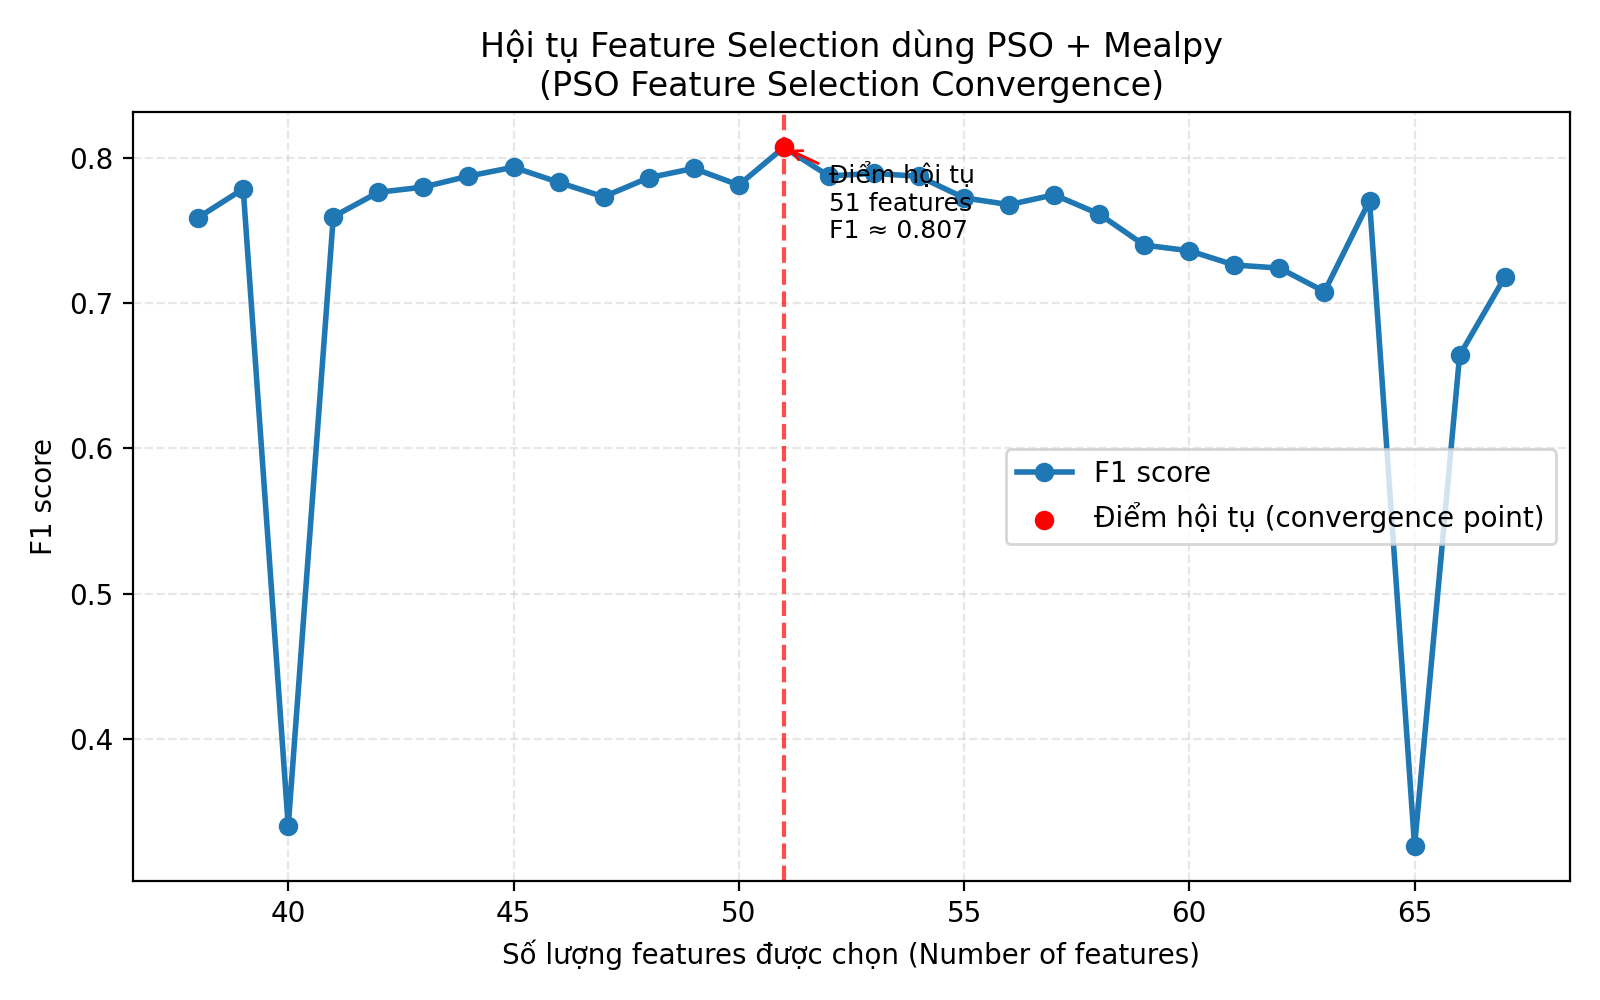
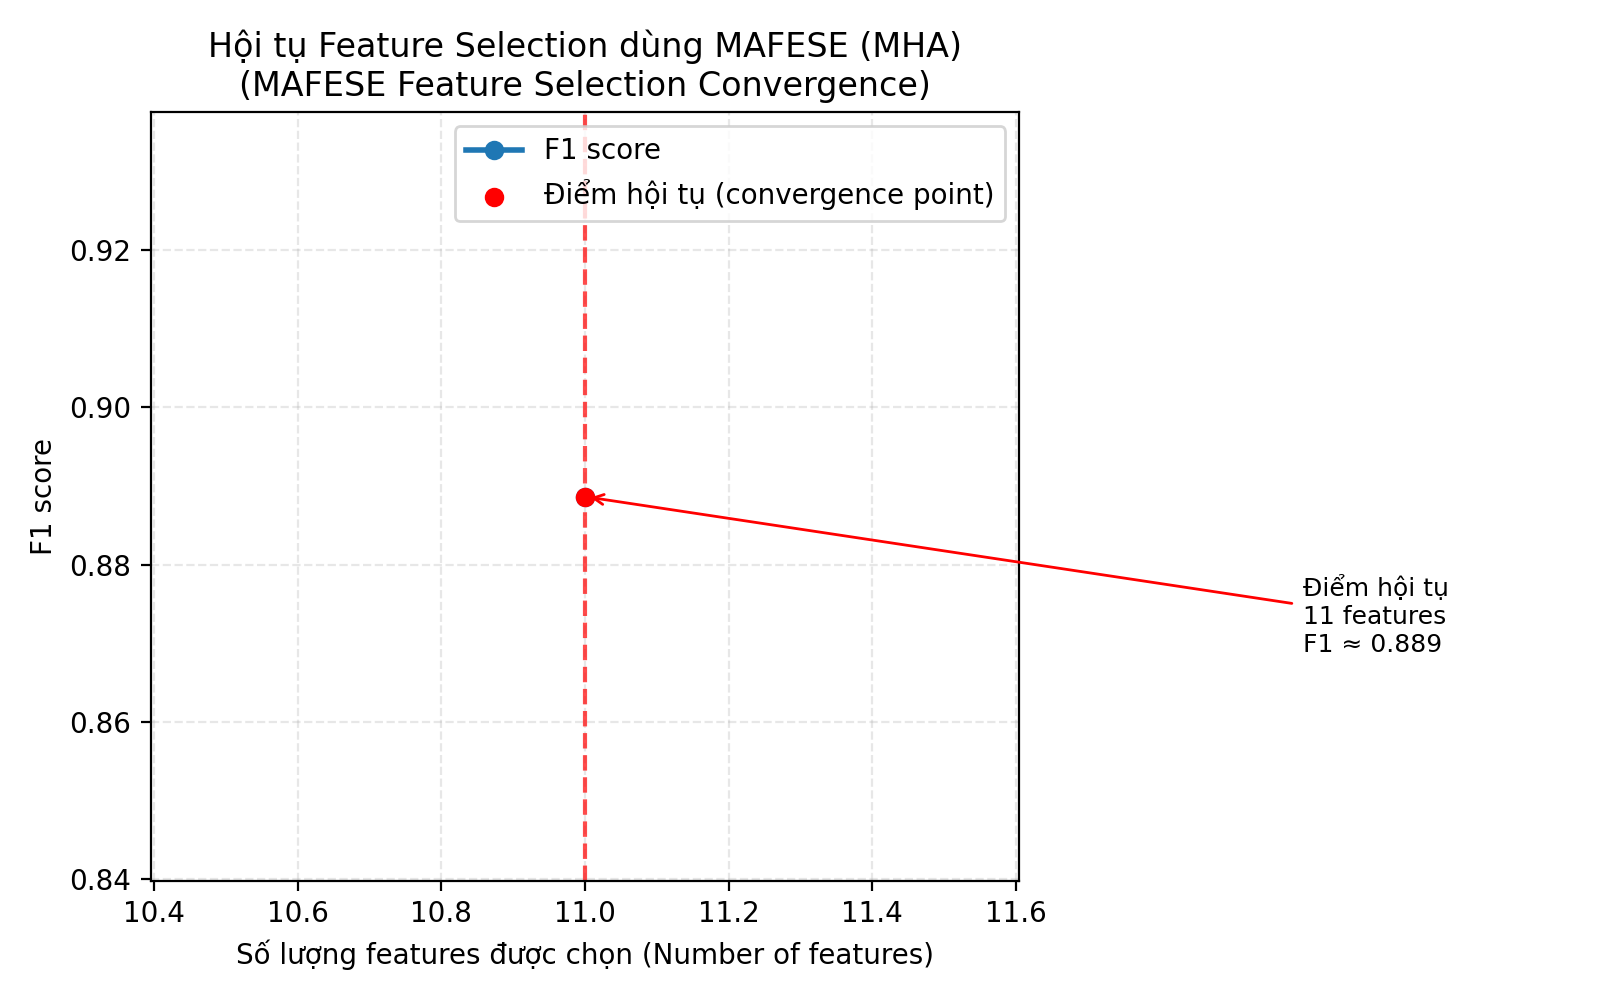
Refactor feature selection implementation to utilize MAFESE with MHA. Updated function names, added feature importance plotting, and modified dataset handling. Included new dependency for MAFESE in pyproject.toml.

diff --git a/plot_pso_fs_convergence.py b/plot_pso_fs_convergence.py
@@ -3,9 +3,7 @@ import pandas as pd
 import matplotlib.pyplot as plt
 from pandas.api.types import is_numeric_dtype
 from sklearn.ensemble import RandomForestClassifier
-from sklearn.model_selection import StratifiedKFold, cross_val_score
-from mealpy import FloatVar
-from mealpy.swarm_based import WOA
+from mafese import Data, MhaSelector
 
 
 def load_dataset(csv_path: str = "class.csv"):
@@ -25,73 +23,47 @@ def load_dataset(csv_path: str = "class.csv"):
     X = np.column_stack(X_encoded)
     y_raw = df["Number of Bugs"].values
     y = (y_raw > 0).astype(int)
-    return X, y
+    return X, y, feature_cols
 
 
-def build_woa_objective(X, y, best_f1_by_k: dict):
-    skf = StratifiedKFold(n_splits=5, shuffle=True, random_state=42)
-    clf = RandomForestClassifier(n_estimators=100, random_state=42, n_jobs=-1)
+def run_mafese_mha_feature_selection(X, y, epoch: int = 20, pop_size: int = 20, verbose: bool = True):
+    data = Data(X, y)
+    data.split_train_test(test_size=0.2, random_state=42)
 
-    # These dicts are mutated inside the closure for simple stateful logging
-    eval_counter = {"n": 0}
-    global_best = {"f1": -1.0, "k": None}
+    optimizer_paras = {"epoch": epoch, "pop_size": pop_size}
+    selector = MhaSelector(
+        problem="classification",
+        obj_name=None,
+        estimator="rf",
+        estimator_paras={"n_estimators": 100, "random_state": 42, "n_jobs": -1},
+        optimizer="OriginalWOA",
+        optimizer_paras=optimizer_paras,
+        mode="single",
+        n_workers=None,
+        termination=None,
+        seed=42,
+        verbose=verbose,
+    )
 
-    def objective(solution):
-        sol = np.asarray(solution)
-        mask = sol > 0.5
-        if not np.any(mask):
-            mask[np.argmax(sol)] = True
+    selector.fit(data.X_train, data.y_train)
 
-        X_sel = X[:, mask]
-        scores = cross_val_score(clf, X_sel, y, cv=skf, scoring="f1")
-        f1 = float(scores.mean())
+    indexes = np.asarray(selector.selected_feature_indexes, dtype=int)
+    if indexes.size == 0:
+        raise RuntimeError("MAFESE did not select any features.")
 
-        k = X_sel.shape[1]
-        prev = best_f1_by_k.get(k)
-        if prev is None or f1 > prev:
-            best_f1_by_k[k] = f1
+    best_info = selector.get_best_information()
+    k = int(best_info.get("n_columns", indexes.size))
+    f1 = float(best_info.get("fit", 0.0))
 
-        eval_counter["n"] += 1
-        if f1 > global_best["f1"]:
-            global_best["f1"] = f1
-            global_best["k"] = k
-            print(f"[WOA-FS] eval={eval_counter['n']:4d}  NEW global best F1={f1:.4f} with k={k}")
-        elif eval_counter["n"] % 20 == 0:
-            print(f"[WOA-FS] eval={eval_counter['n']:4d}  F1={f1:.4f} with k={k}")
-
-        return 1.0 - f1
-
-    return objective
+    best_f1_by_k: dict[int, float] = {k: f1}
+    return best_f1_by_k, indexes
 
 
-def run_woa_feature_selection(X, y, epoch: int = 20, pop_size: int = 20, verbose: bool = True):
-    n_features = X.shape[1]
-    best_f1_by_k: dict[int, float] = {}
-    obj_func = build_woa_objective(X, y, best_f1_by_k)
-
-    bounds = FloatVar(lb=(0.0,) * n_features, ub=(1.0,) * n_features, name="w")
-    problem = {
-        "bounds": bounds,
-        "obj_func": obj_func,
-        "minmax": "min",
-        "name": "WOA Feature Selection (F1)",
-        "log_to": None,
-    }
-
-    print(f"[WOA-FS] Starting WOA: n_features={n_features}, epoch={epoch}, pop_size={pop_size}")
-    model = WOA.OriginalWOA(epoch=epoch, pop_size=pop_size, verbose=verbose)
-    model.solve(problem)
-
-    print("[WOA-FS] Finished WOA. Best F1 by feature count (k):")
-    for k in sorted(best_f1_by_k.keys()):
-        print(f"  k={k:3d} -> F1={best_f1_by_k[k]:.4f}")
-
-    return best_f1_by_k
-
-
-def plot_woa_feature_selection_convergence(output_path: str = "pso_feature_selection_convergence.png"):
-    X, y = load_dataset("class.csv")
-    best_f1_by_k = run_woa_feature_selection(X, y, epoch=20, pop_size=20, verbose=True)
+def plot_mafese_feature_selection_convergence(output_path: str = "pso_feature_selection_convergence.png"):
+    X, y, feature_names = load_dataset("class.csv")
+    best_f1_by_k, selected_indexes = run_mafese_mha_feature_selection(
+        X, y, epoch=20, pop_size=20, verbose=True
+    )
 
     feature_counts = np.array(sorted(best_f1_by_k.keys()))
     f1_scores = np.array([best_f1_by_k[k] for k in feature_counts])
@@ -100,6 +72,7 @@ def plot_woa_feature_selection_convergence(output_path: str = "pso_feature_selec
     convergence_features = int(feature_counts[best_idx])
     convergence_f1 = float(f1_scores[best_idx])
 
+    # Figure 1: convergence curve (kept from previous version)
     plt.figure(figsize=(8, 5))
     plt.plot(feature_counts, f1_scores, marker="o", linewidth=2, label="F1 score")
 
@@ -129,7 +102,7 @@ def plot_woa_feature_selection_convergence(output_path: str = "pso_feature_selec
 
     plt.xlabel("Số lượng features được chọn (Number of features)")
     plt.ylabel("F1 score")
-    plt.title("Hội tụ Feature Selection dùng PSO + Mealpy\n(PSO Feature Selection Convergence)")
+    plt.title("Hội tụ Feature Selection dùng MAFESE (MHA)\n(MAFESE Feature Selection Convergence)")
     plt.grid(True, linestyle="--", alpha=0.3)
     plt.legend()
     plt.tight_layout()
@@ -137,6 +110,32 @@ def plot_woa_feature_selection_convergence(output_path: str = "pso_feature_selec
     plt.savefig(output_path, dpi=200)
     plt.close()
 
+    # Figure 2: top-15 feature importances for selected features
+    rf = RandomForestClassifier(n_estimators=200, random_state=42, n_jobs=-1)
+    X_sel = X[:, selected_indexes]
+    rf.fit(X_sel, y)
+
+    importances = rf.feature_importances_
+    feat_names_sel = np.array([feature_names[i] for i in selected_indexes])
+
+    order = np.argsort(importances)[::-1]
+    top_k = min(15, order.size)
+    order = order[:top_k]
+
+    top_importances = importances[order]
+    top_names = feat_names_sel[order]
+
+    plt.figure(figsize=(8, 5))
+    y_pos = np.arange(top_k)
+    # Reverse so the most important feature is at the top
+    plt.barh(y_pos, top_importances[::-1])
+    plt.yticks(y_pos, top_names[::-1])
+    plt.xlabel("Importance")
+    plt.title("Top 15 Feature Importances - Random Forest")
+    plt.tight_layout()
+    plt.savefig("top15_feature_importances.png", dpi=200)
+    plt.close()
+
 
 if __name__ == "__main__":
-    plot_woa_feature_selection_convergence()
+    plot_mafese_feature_selection_convergence()
